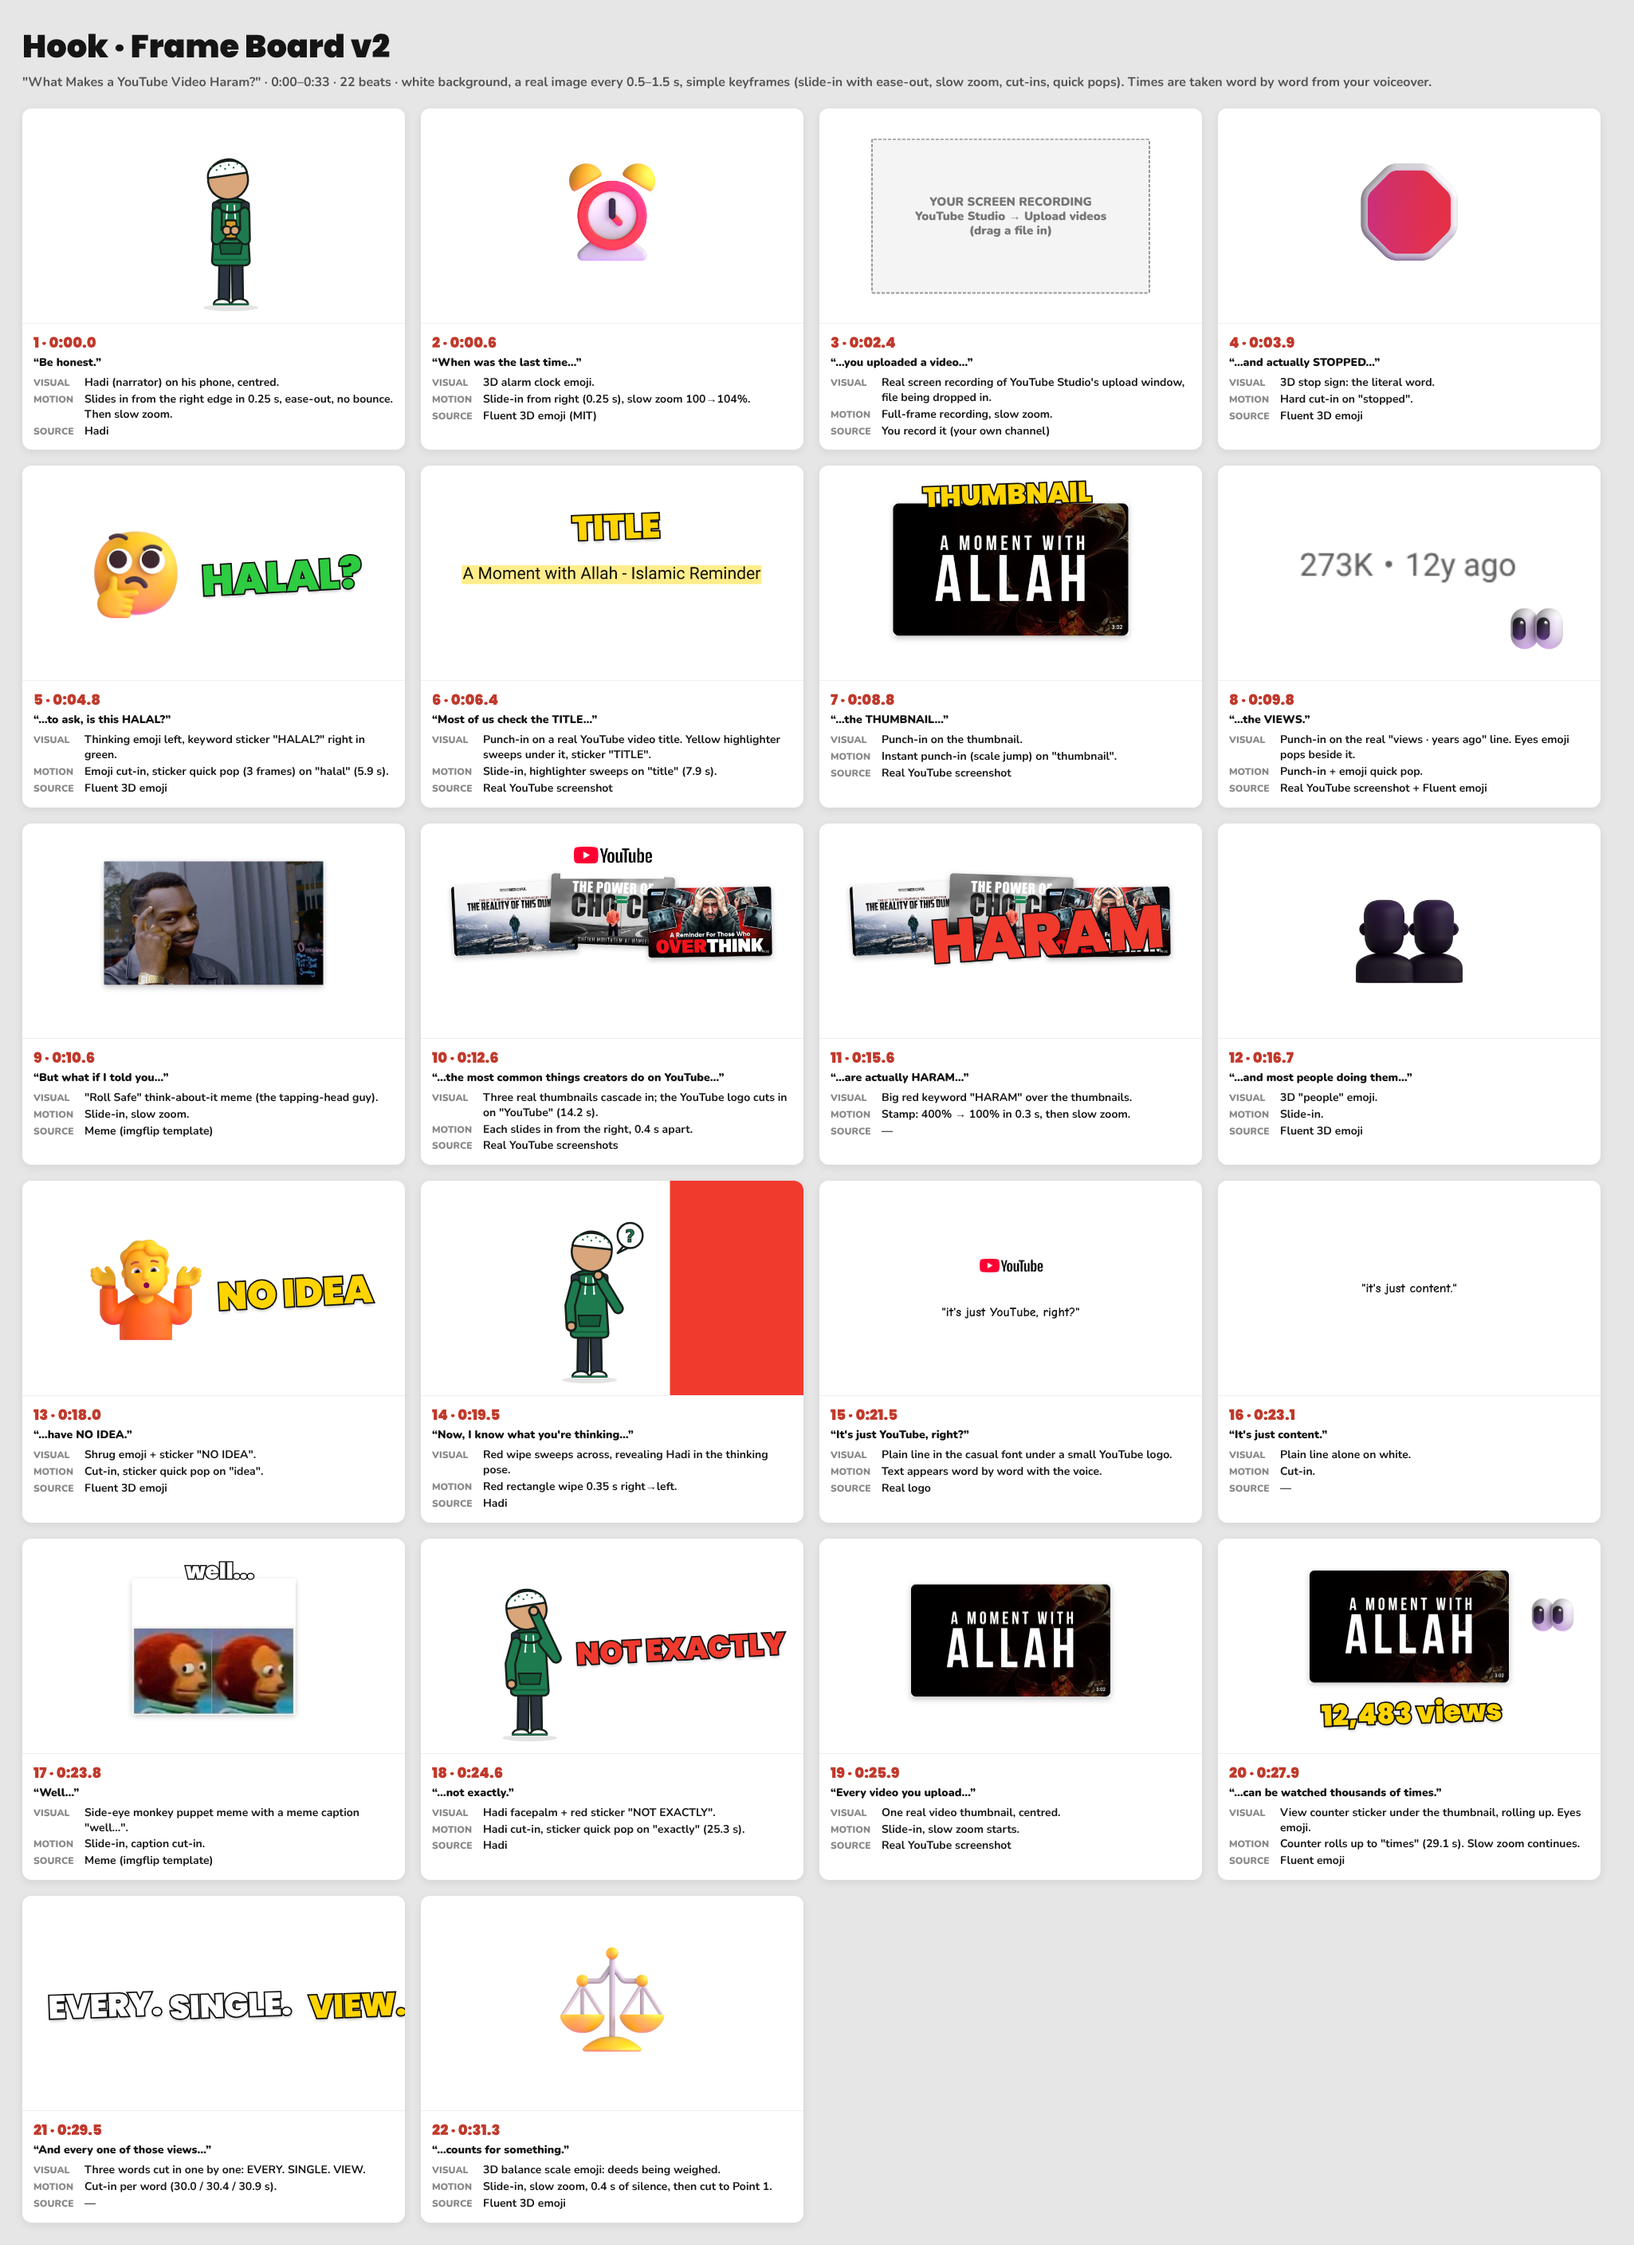
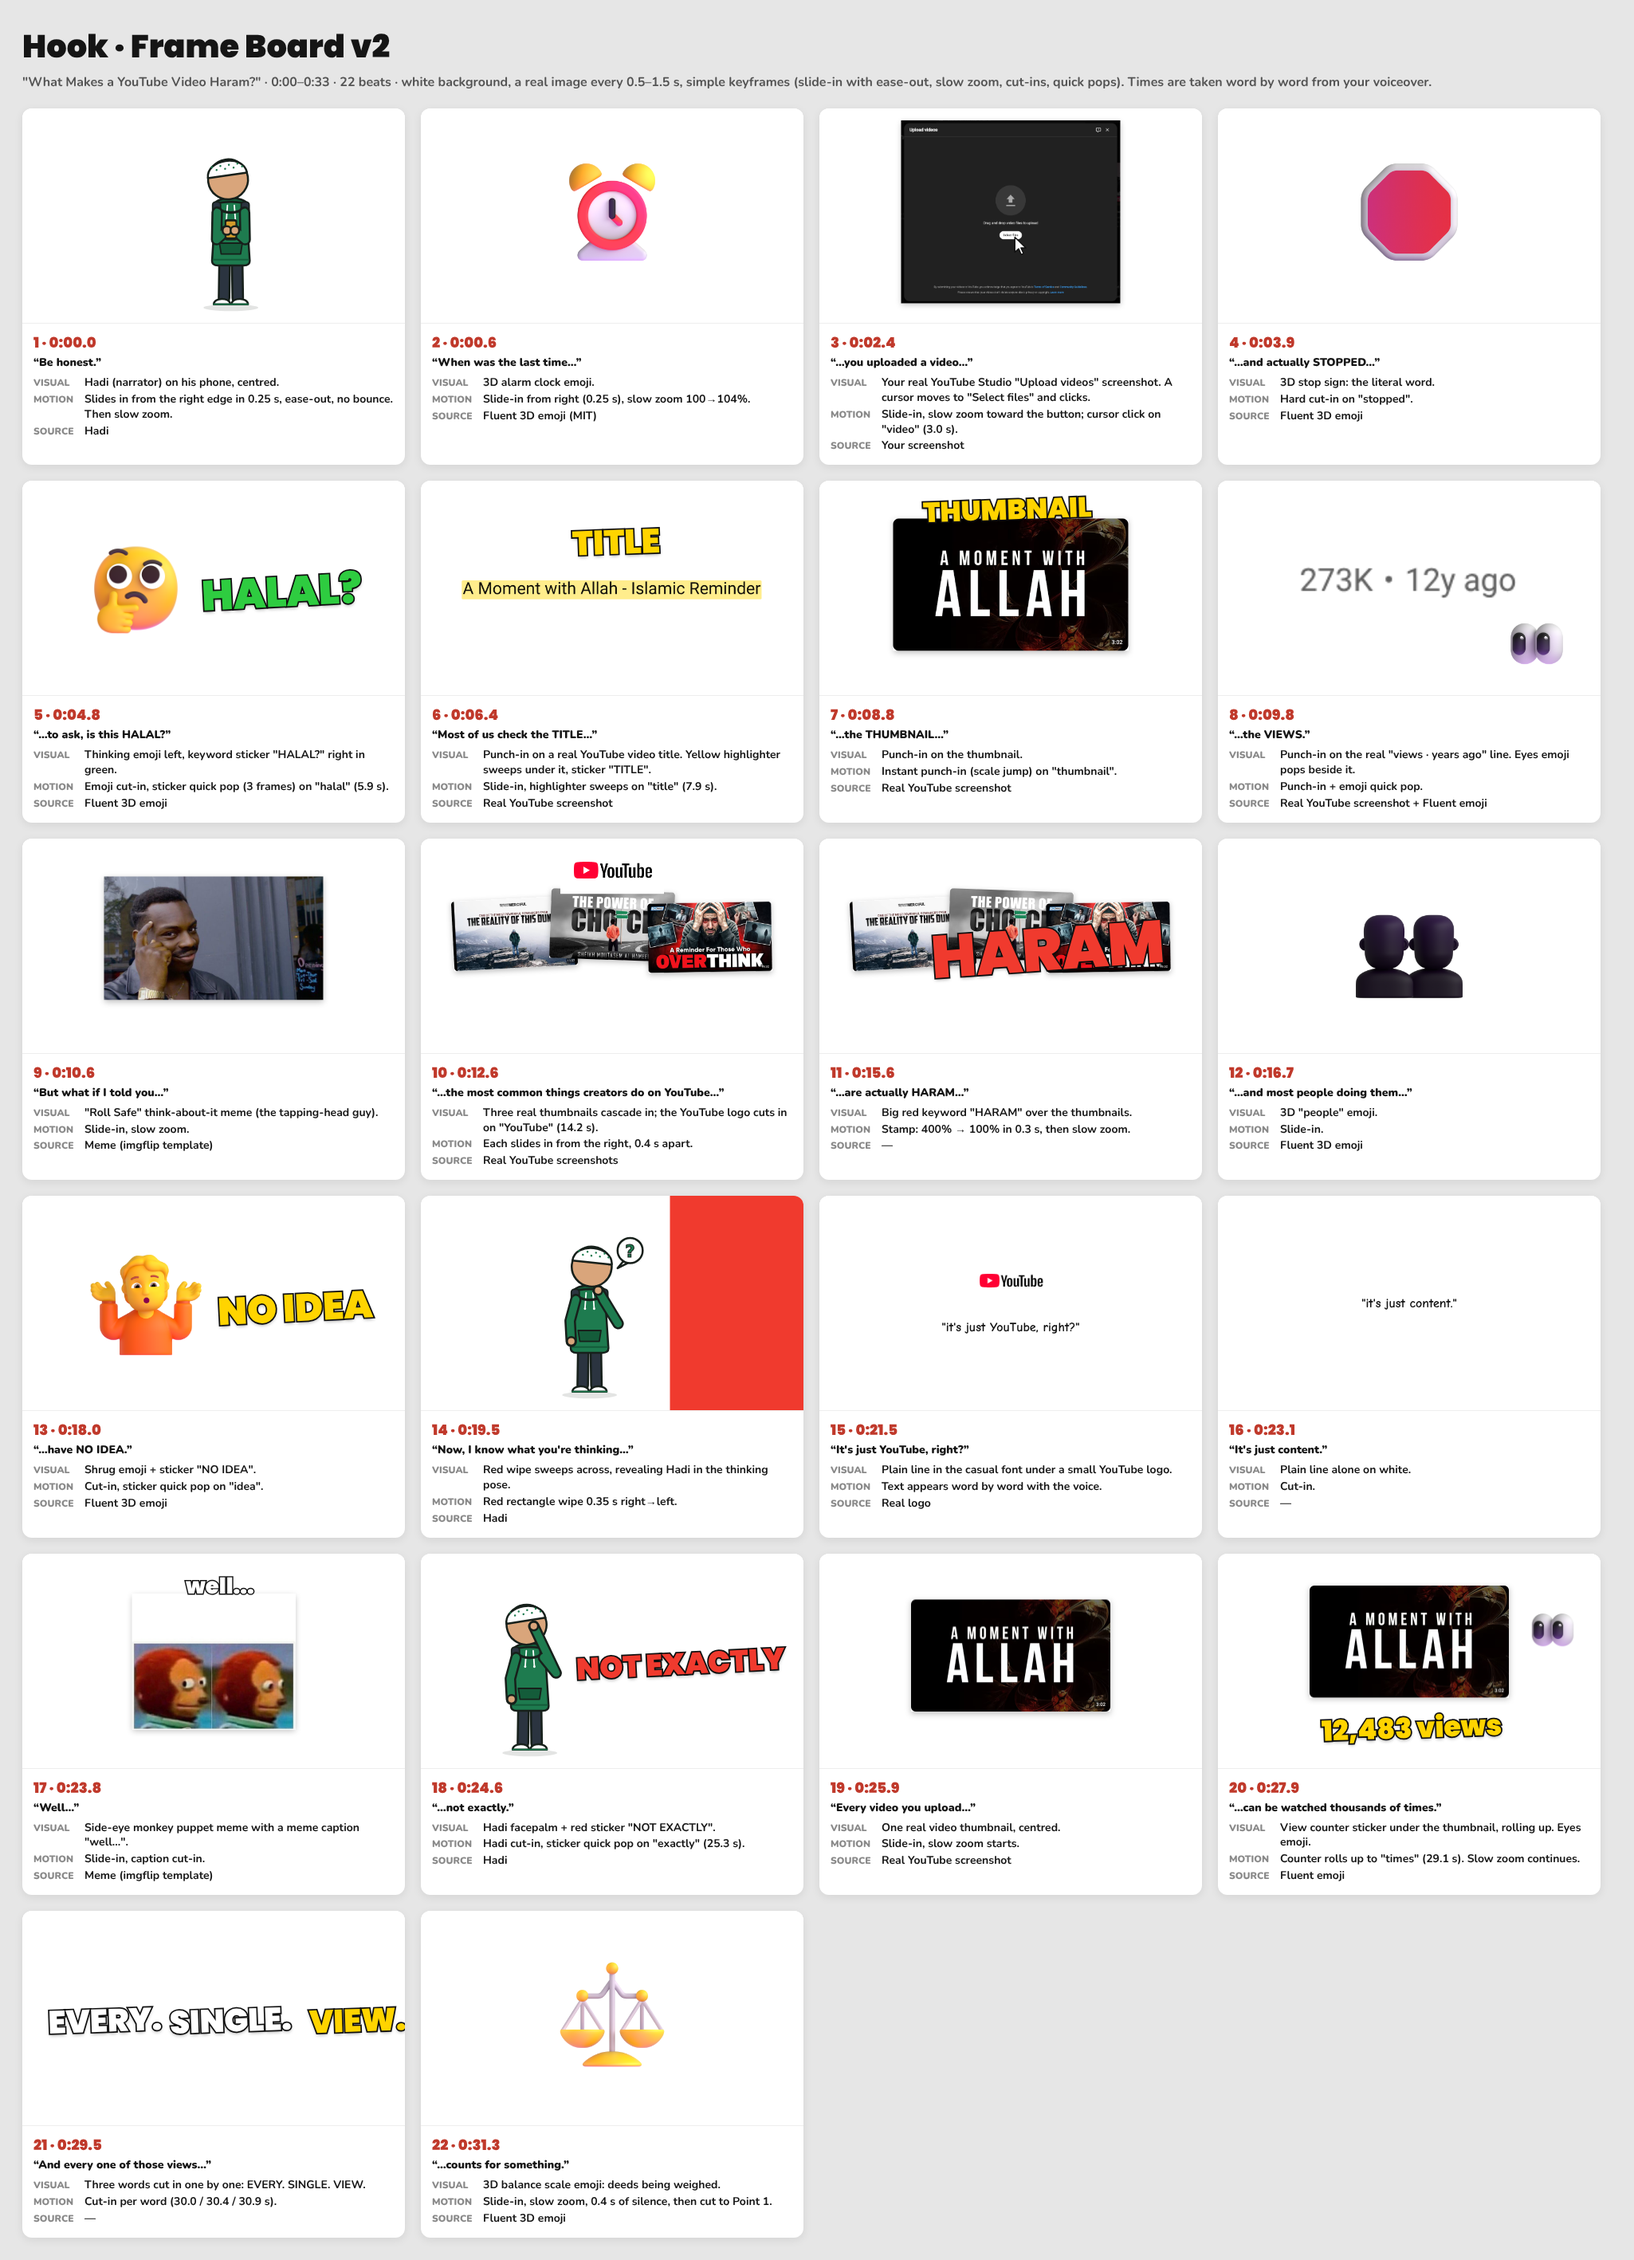
Hook board: use real YouTube Studio upload screenshot for frame 3
Claude-Session: https://claude.ai/code/session_01QVTU5PaE9KihLGBMkdjEyk

diff --git a/storyboards/01-hook/index.html b/storyboards/01-hook/index.html
@@ -49,8 +49,8 @@ const F = [
     vis:'Hadi (narrator) on his phone, centred.', mot:'Slides in from the right edge in 0.25 s, ease-out, no bounce. Then slow zoom.', src:'Hadi' },
   { t:'0:00.6', vo:'When was the last time…', s: center('emoji-alarm.png', 560, 240),
     vis:'3D alarm clock emoji.', mot:'Slide-in from right (0.25 s), slow zoom 100→104%.', src:'Fluent 3D emoji (MIT)' },
-  { t:'0:02.4', vo:'…you uploaded a video…', s: ph('YOUR SCREEN RECORDING<br>YouTube Studio → Upload videos<br>(drag a file in)', 260, 150, 1400, 780),
-    vis:'Real screen recording of YouTube Studio\'s upload window, file being dropped in.', mot:'Full-frame recording, slow zoom.', src:'You record it (your own channel)' },
+  { t:'0:02.4', vo:'…you uploaded a video…', s: center('yt-upload.png', 1100, 60, {photo:true}) + `<img class="img" src="assets/cursor.svg" style="left:975px;top:640px;width:70px">`,
+    vis:'Your real YouTube Studio "Upload videos" screenshot. A cursor moves to "Select files" and clicks.', mot:'Slide-in, slow zoom toward the button; cursor click on "video" (3.0 s).', src:'Your screenshot' },
   { t:'0:03.9', vo:'…and actually STOPPED…', s: center('emoji-stop.png', 560, 240),
     vis:'3D stop sign: the literal word.', mot:'Hard cut-in on "stopped".', src:'Fluent 3D emoji' },
   { t:'0:04.8', vo:'…to ask, is this HALAL?', s: img('emoji-thinking.png', 330, 300, 480) + sticker('HALAL?', '#2ECC40', 900, 400, 210, -3),
